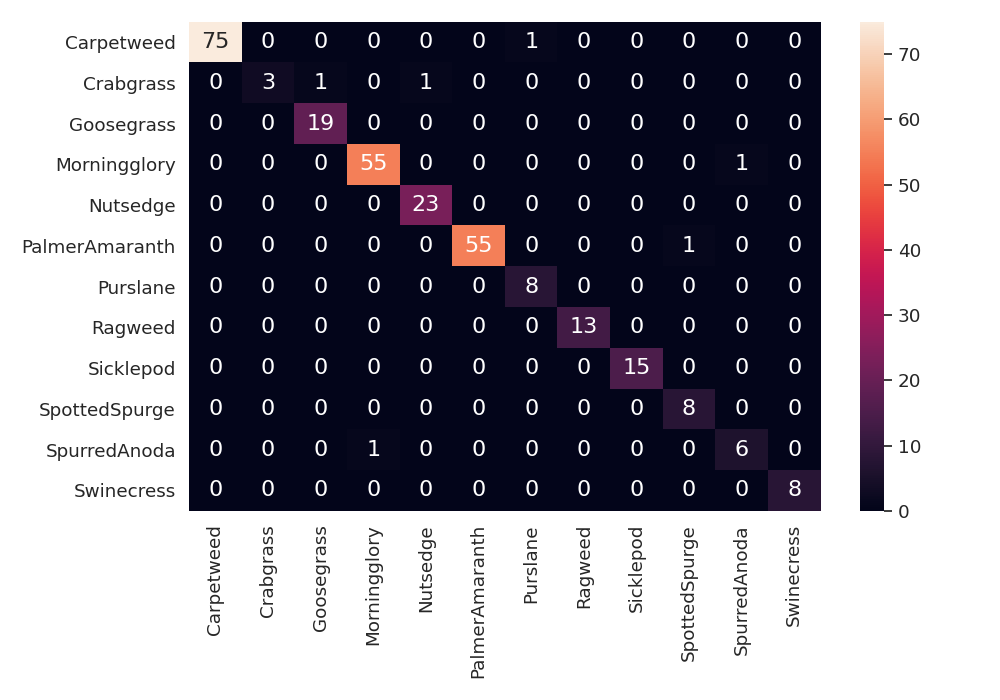
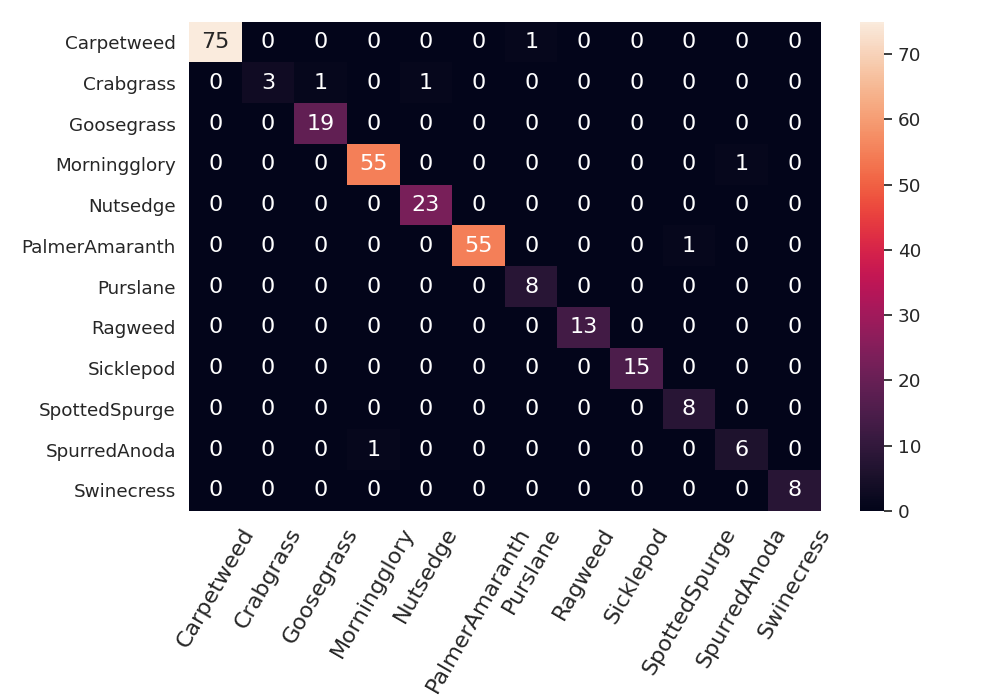
add plots

Changed region(s): [[0.186, 0.75, 0.837, 0.99]]

diff --git a/eval.py b/eval.py
@@ -13,7 +13,7 @@ import matplotlib.pyplot as plt
 EVAL_DIR = 'DATASET/test'
 # Load a pretrained model - resnet18, resnet50, resnet101, alexnet, squeezenet, vgg11, vgg16, vgg19,
 # densenet121, densenet161, densenet169,  inception, inceptionv4, googlenet,
-name = 'densenet169'
+name = 'densenet161'
 EVAL_MODEL = './models/' + name + ".pth"
 img_size = 512
 # Load the model for evaluation
@@ -84,8 +84,8 @@ df_cm = pd.DataFrame(conf_mat, index=class_names,
 sn.set(font_scale=1.2)
 sn.heatmap(df_cm, annot=True, annot_kws={"size": 16})
 plt.tight_layout()
-plt.savefig('Confusing_Matrices/' + name + '_cm.png')
 plt.xticks(rotation=60, fontsize=16)
+plt.savefig('Confusing_Matrices/' + name + '_cm.png')
 plt.show()
 
 
